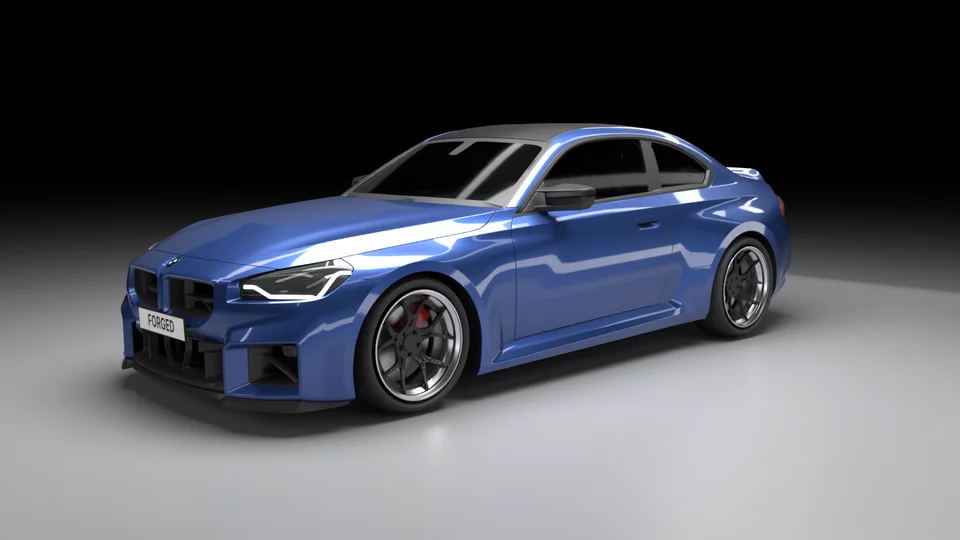
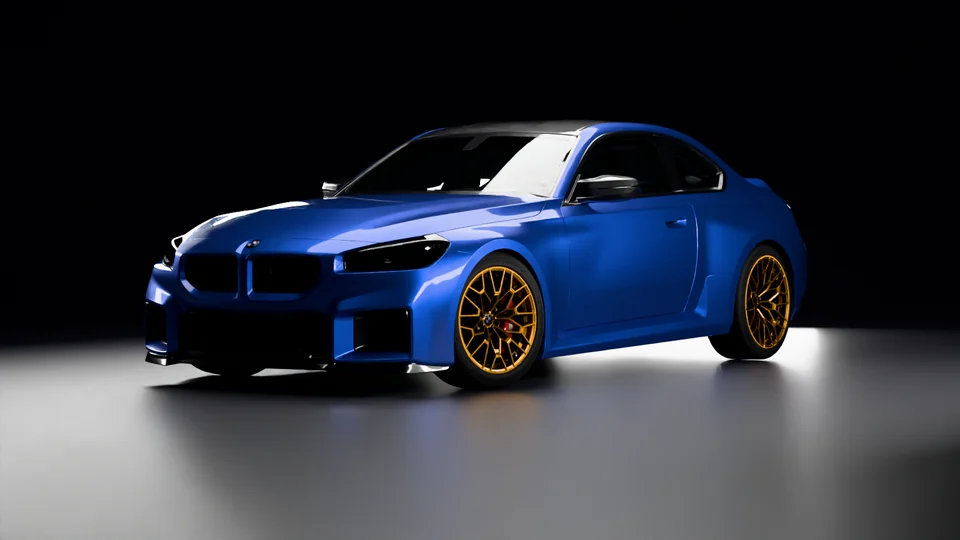
fix(hero): restore the original studio stills for the four prepared cars; version hero URLs
Why: the owner compared the welcome screen on a phone: the M5, M5 Touring
and M2 CS stills looked refined, the M3 Touring did not. The refined ones
were the 11 Nov Cycles stills from the reference studio; my 23 Nov
re-render (render_car.py --hero) replaced them with flatter, brighter,
more zoomed images. And /hero/ is cached for a day plus a week, under the
same names, so phones kept showing whichever older copy they had (the M3
Touring: the pre-Cycles live-wheel still).

What: the four 11 Nov stills restored (588c06b), the wheels on them are
the originals again (M2 CS gold) rather than FSA001; hero URLs carry
HERO_VERSION so a changed still is never served from a stale cache.

Checked: side by side, original vs 23 Nov re-render for all three; lint
passes. The other 15 cars' stills are still the 23 Nov re-render and are
being re-lit to the original look next.

Claude-Session: https://claude.ai/code/session_015obiwYr2JT9ZertwAVjNpN

diff --git a/components/journey/HeroStage.tsx b/components/journey/HeroStage.tsx
@@ -7,6 +7,13 @@ import React, { useCallback, useEffect, useRef, useState } from 'react';
 import { ArrowLeft, ArrowRight } from 'lucide-react';
 import { cx } from './ui';
 
+/**
+ * Stamp on every hero image URL. The stills keep their names when re-rendered and /hero/ is cached for a day plus a week of
+ * stale-while-revalidate, so bump this whenever public/hero/* changes (phones kept showing the old M3 Touring still).
+ */
+export const HERO_VERSION = '20261123b';
+export const heroUrl = (carId: string, width: 960 | 1600) => `/hero/${carId}-${width}.webp?v=${HERO_VERSION}`;
+
 /** One car on the welcome stage: a Cycles still rendered in the reference studio (public/hero/<carId>-<w>.webp). */
 export interface HeroSlide {
   carId: string;
@@ -129,8 +136,8 @@ export const HeroStage: React.FC<{ slides: HeroSlide[]; index: number; prev: num
       return (
         <img
           key={s.carId}
-          src={`/hero/${s.carId}-1600.webp`}
-          srcSet={`/hero/${s.carId}-960.webp 960w, /hero/${s.carId}-1600.webp 1600w`}
+          src={heroUrl(s.carId, 1600)}
+          srcSet={`${heroUrl(s.carId, 960)} 960w, ${heroUrl(s.carId, 1600)} 1600w`}
           sizes={SIZES}
           alt={active ? `${s.name} in ${s.paint}` : ''}
           aria-hidden={!active}

diff --git a/components/journey/AccountSheet.tsx b/components/journey/AccountSheet.tsx
@@ -24,7 +24,7 @@ import {
 import { forgetLocalConfiguration } from '../../services/journeyService';
 import { Alert, Button, Divider, Eyebrow, Modal, Status, cx } from './ui';
 import { shortModelName } from './carNames';
-import { HERO_SLIDES } from './HeroStage';
+import { HERO_SLIDES, heroUrl } from './HeroStage';
 
 export interface AccountSheetProps {
   open: boolean;
@@ -118,7 +118,7 @@ const StageStill: React.FC<{ carId?: string }> = ({ carId }) => {
       }}
     >
       <img
-        src={`/hero/${slide.carId}-960.webp`}
+        src={heroUrl(slide.carId, 960)}
         alt=""
         draggable={false}
         decoding="async"
